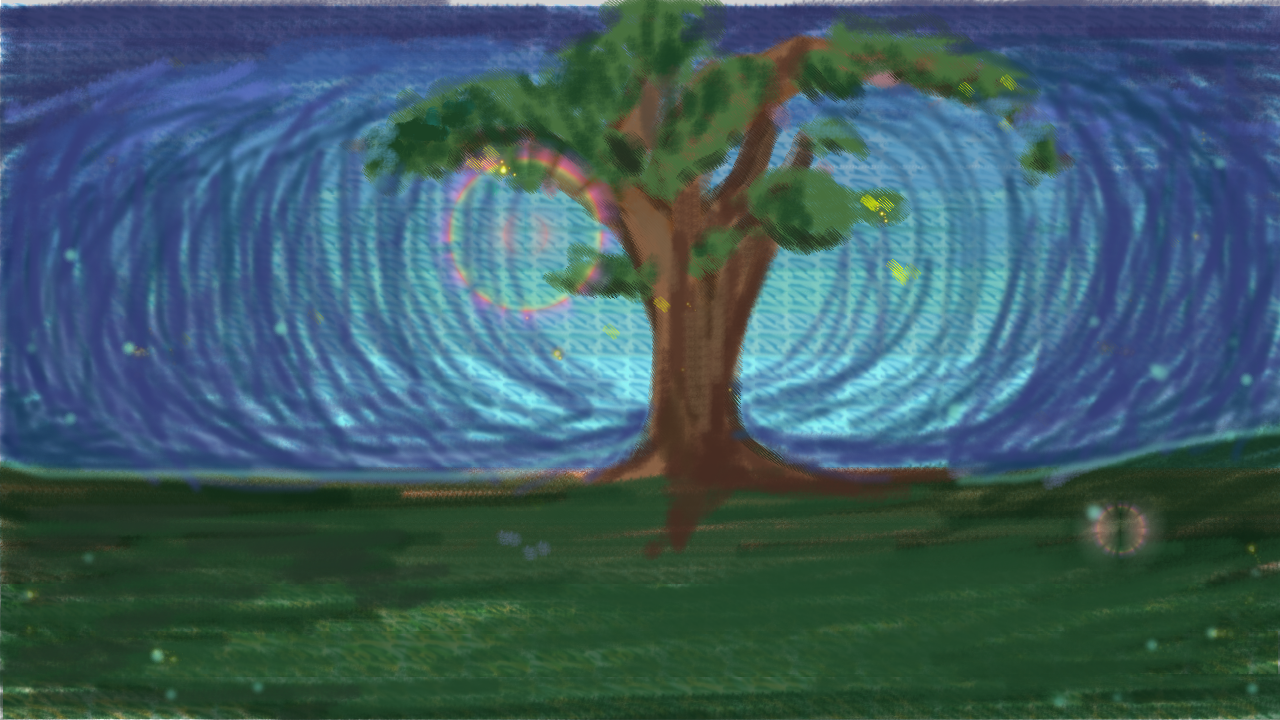
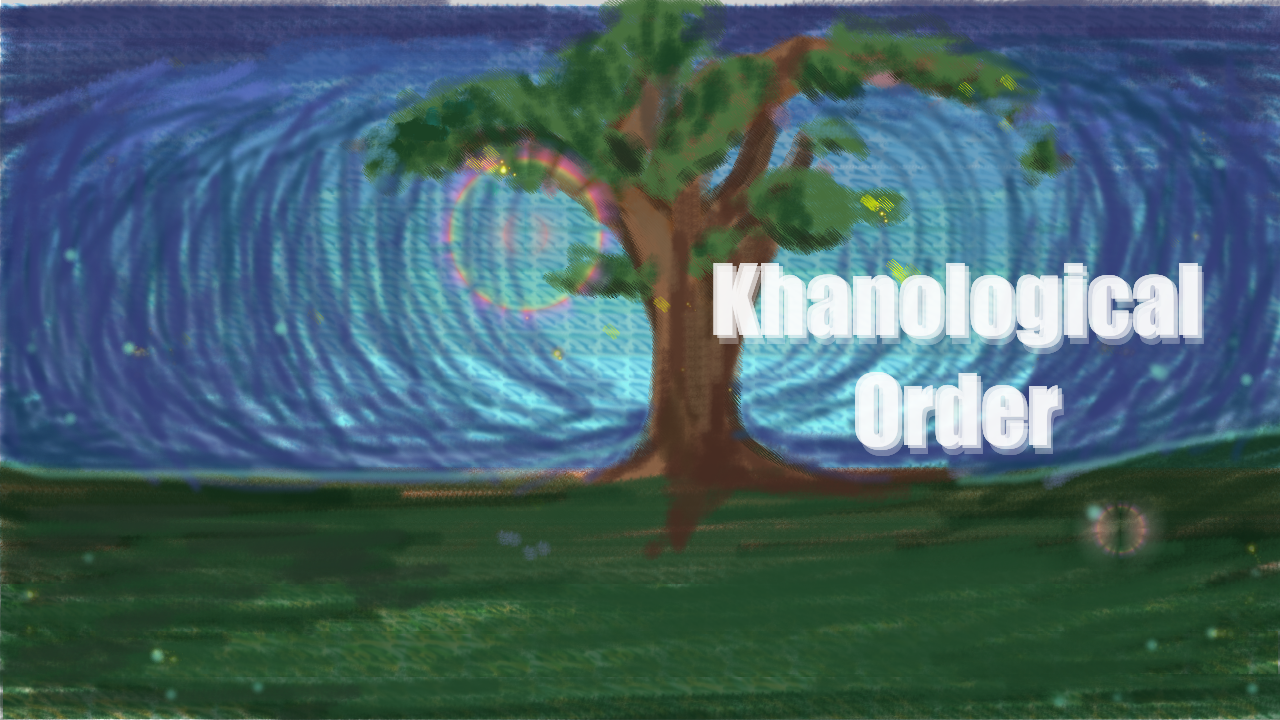
Added name to bg image, added jframe title

Changed region(s): [[0.5312, 0.3667, 0.9375, 0.4889], [0.6562, 0.5194, 0.8438, 0.6417]]

diff --git a/CompSciClubGame/src/omhscsc/Game.java b/CompSciClubGame/src/omhscsc/Game.java
@@ -46,7 +46,7 @@ public class Game {
 	{
 		running = false;
 		states = new ArrayList<GameState>();
-		frame = new JFrame();
+		frame = new JFrame("Khanological Order");
 		frame.setDefaultCloseOperation(JFrame.EXIT_ON_CLOSE);
 		frame.setSize(Game.WIDTH, Game.HEIGHT);
 		frame.setResizable(false);
